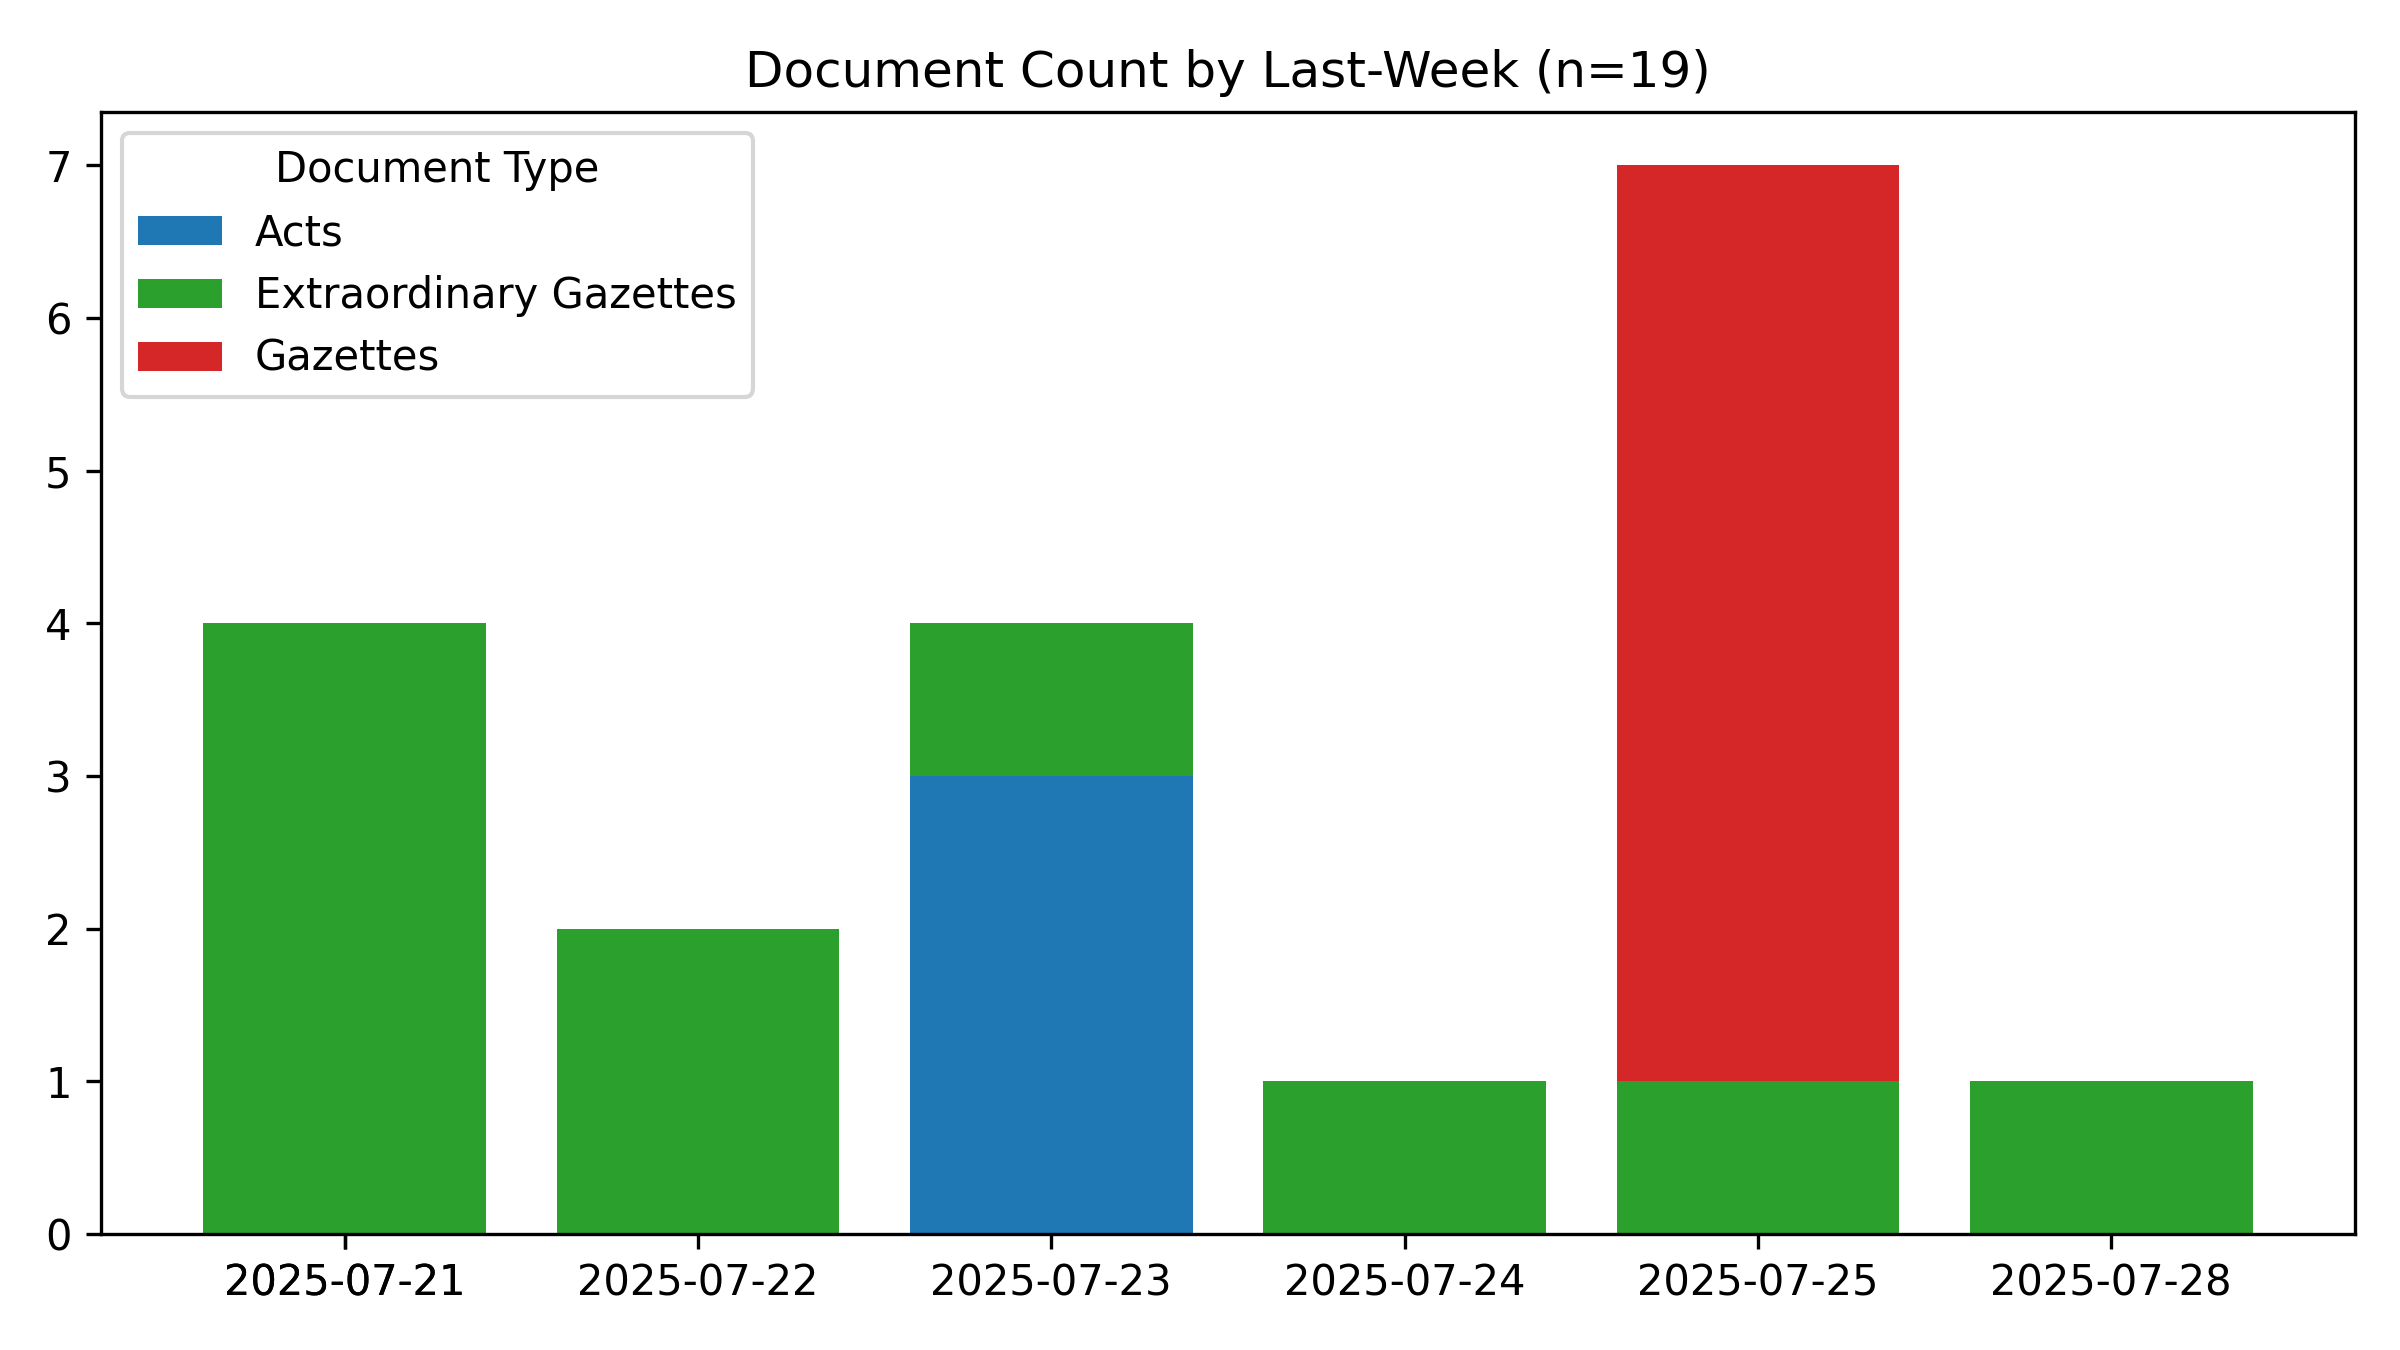
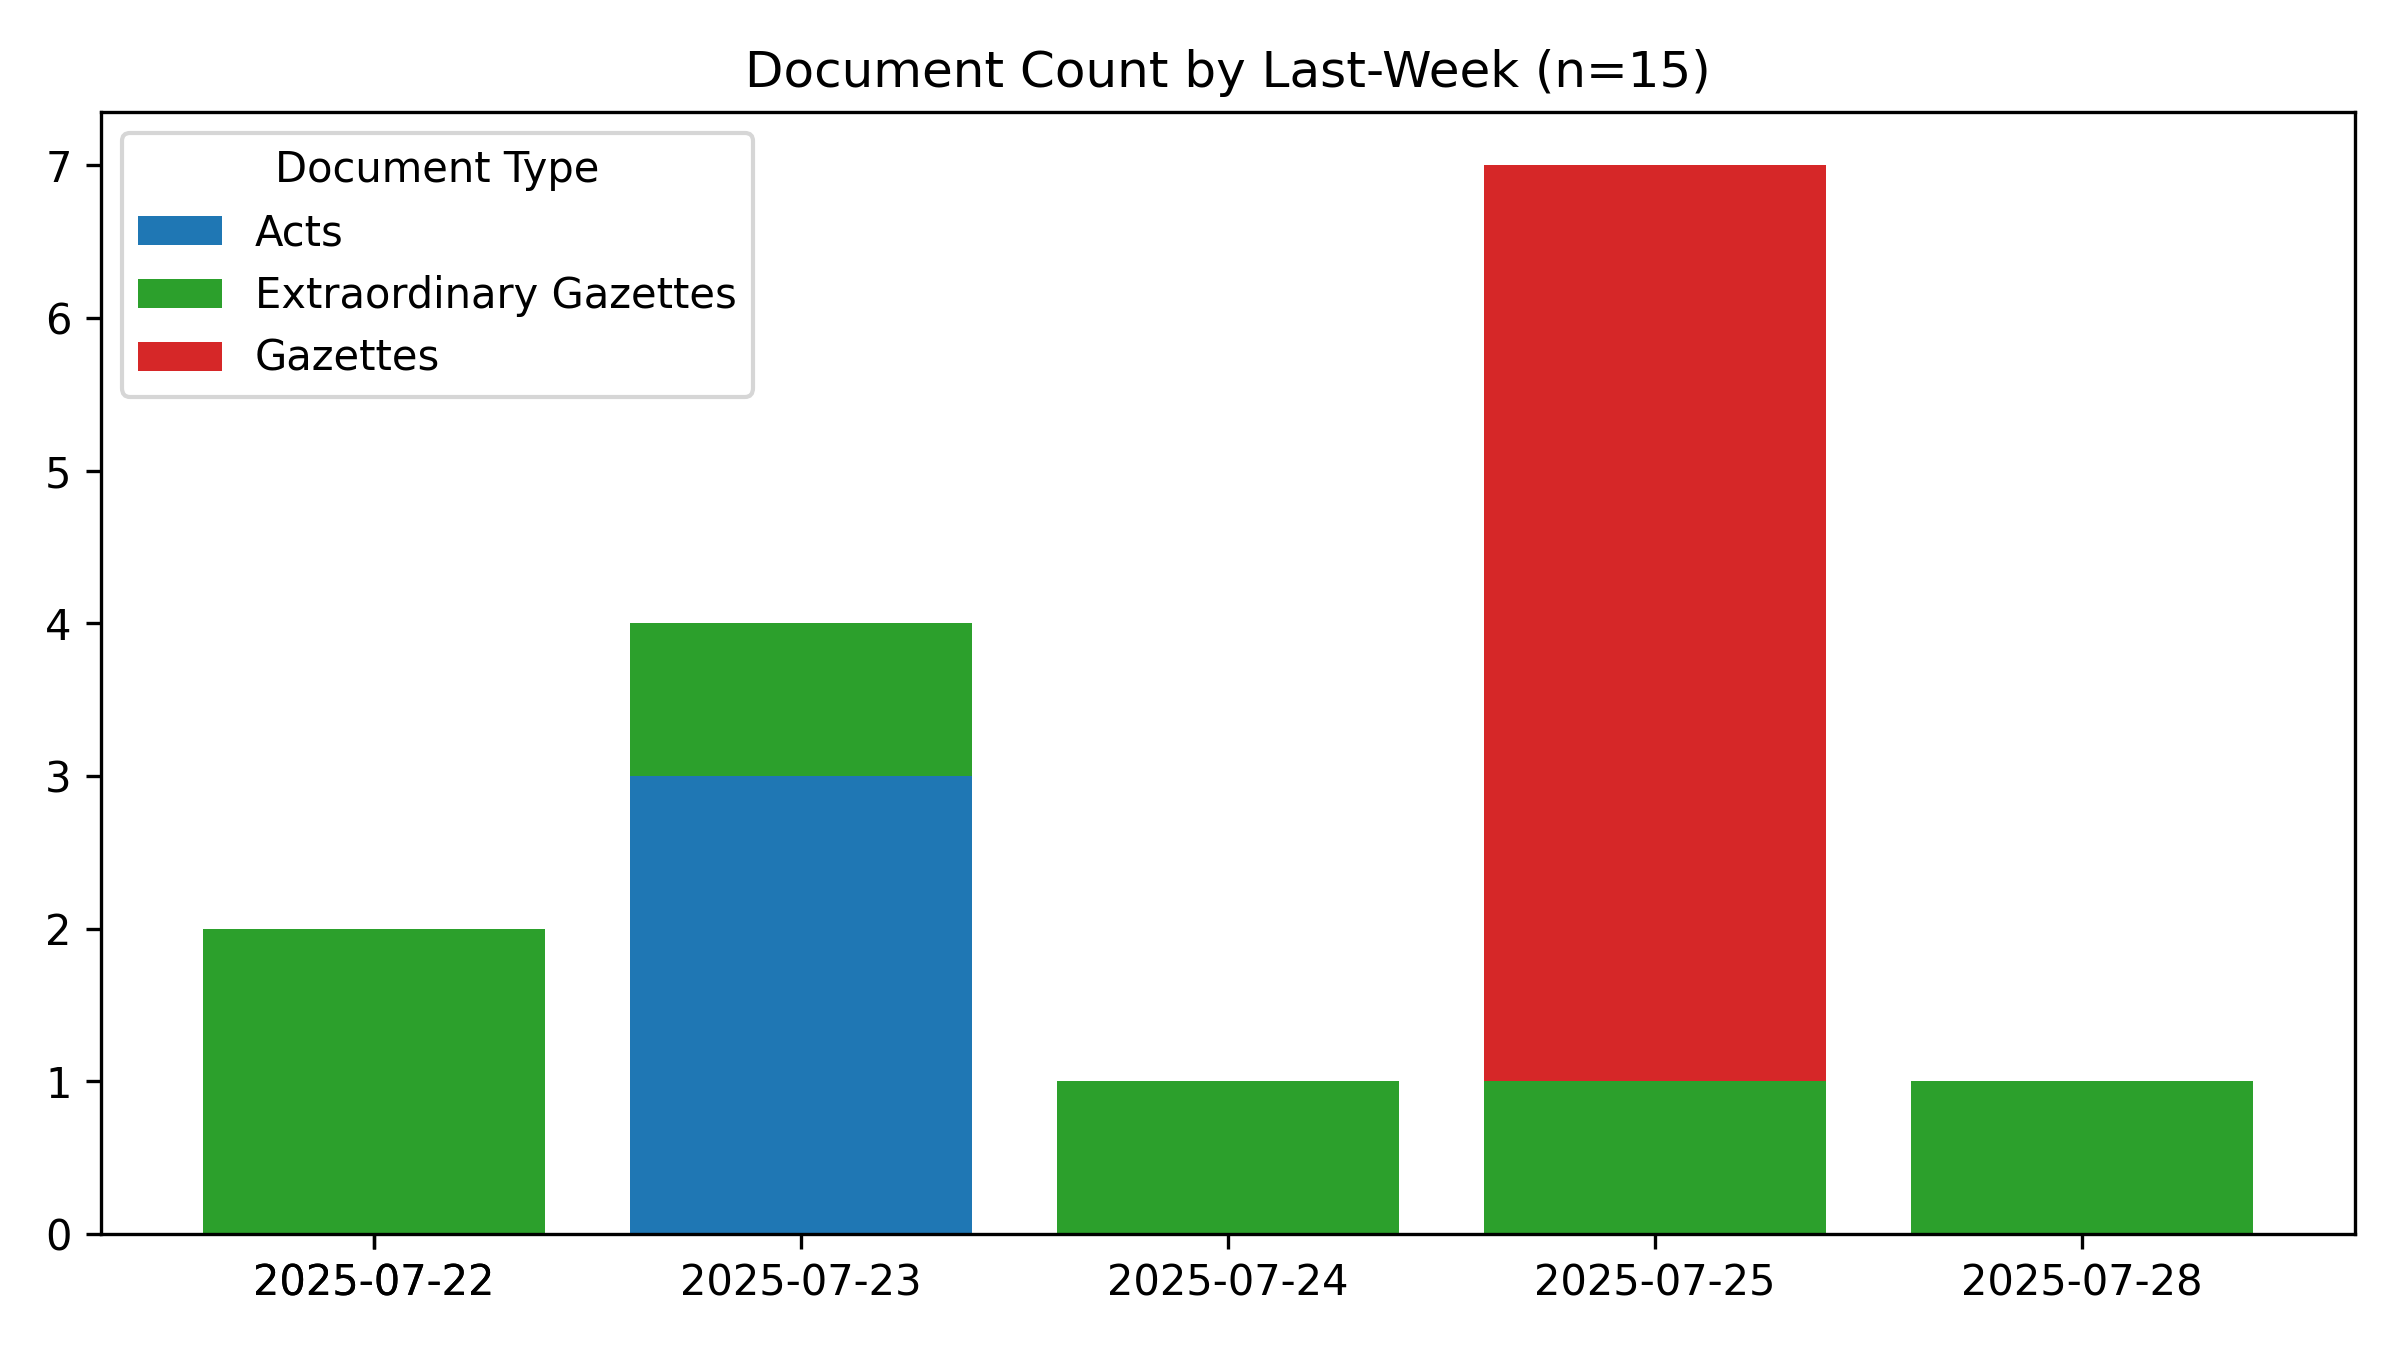
🤖 [data_scraper.yml] 2025-07-29-0000

Changed region(s): [[0.0625, 0.1244, 0.8438, 0.9644], [0.8125, 0.9333, 0.9375, 0.9644], [0.6875, 0.0311, 0.7188, 0.0622]]

diff --git a/README.md b/README.md
@@ -1,6 +1,6 @@
 # #SriLanka 🇱🇰 - Legal Documents #Dataset
 
-*Last Updated **2025-07-29 05:02:56**.*
+*Last Updated **2025-07-29 05:30:37**.*
 
 **44,145** documents (41.0 MB), from 1981-01-22 to 2025-07-28.
 
@@ -16,7 +16,7 @@ A collection of 📢 Gazettes, 🚨 Extraordinary Gazettes, 🏛 Acts, ✍
 
 #Legal #OpenData #GovTech
 
-📄 Currently, 90,342 PDFs (34.1 GB) for **32,039** documents (72.6%) have been downloaded. Final data size is estimated to be ~47 GB.
+📄 Currently, 90,461 PDFs (34.1 GB) for **32,078** documents (72.7%) have been downloaded. Final data size is estimated to be ~47 GB.
 
 ## 🆕 The Legal Documents App
 
@@ -45,7 +45,7 @@ For best results, use a desktop browser.
 
 ## Recent Documents (Published during the last 7 days)
 
-**19** Documents
+**15** Documents
 
 - 🚨 [2025-07-28] [Sri Lanka Customs - Rates of Exchange from 28.07.2025 to 03.08.2025](https://github.com/nuuuwan/lk_legal_docs_data/tree/main/data/extra-gazettes/2025/2447-01)
 - 🚨 [2025-07-25] [Presidential Secretariat - Order Call Out All the member of the Armed Forces](https://github.com/nuuuwan/lk_legal_docs_data/tree/main/data/extra-gazettes/2025/2446-52)
@@ -62,7 +62,3 @@ For best results, use a desktop browser.
 - 🏛 [2025-07-23] [Budgetary Relief Allowance of Workers (Amendment)](https://github.com/nuuuwan/lk_legal_docs_data/tree/main/data/acts/2025/09-2025)
 - 🚨 [2025-07-22] [Universities Act, No. 16 of 1978 Order under Section 25A Degree Awarding Institute Order](https://github.com/nuuuwan/lk_legal_docs_data/tree/main/data/extra-gazettes/2025/2446-36)
 - 🚨 [2025-07-22] [Department of Census and Statistics - National Consumer Price Index - June 2025](https://github.com/nuuuwan/lk_legal_docs_data/tree/main/data/extra-gazettes/2025/2446-35)
-- 🚨 [2025-07-21] [National Medicines Regulatory Authority - Medicines (Pricing Mechanism for Medicines) Regulations No. 02 of 2025.](https://github.com/nuuuwan/lk_legal_docs_data/tree/main/data/extra-gazettes/2025/2446-34)
-- 🚨 [2025-07-21] [2446/26](https://github.com/nuuuwan/lk_legal_docs_data/tree/main/data/extra-gazettes/2025/2446-26)
-- 🚨 [2025-07-21] [Department of Local Government - Eastern Province - Notice under Section 66(C) Summon the Meeting to the post of Chairman of the Manmunaipattu Pradeshiya Sabha](https://github.com/nuuuwan/lk_legal_docs_data/tree/main/data/extra-gazettes/2025/2446-04)
-- 🚨 [2025-07-21] [Sri Lanka Customs - Rates of Exchange with effect from 21.07.2025 to 27.07.2025](https://github.com/nuuuwan/lk_legal_docs_data/tree/main/data/extra-gazettes/2025/2446-01)
